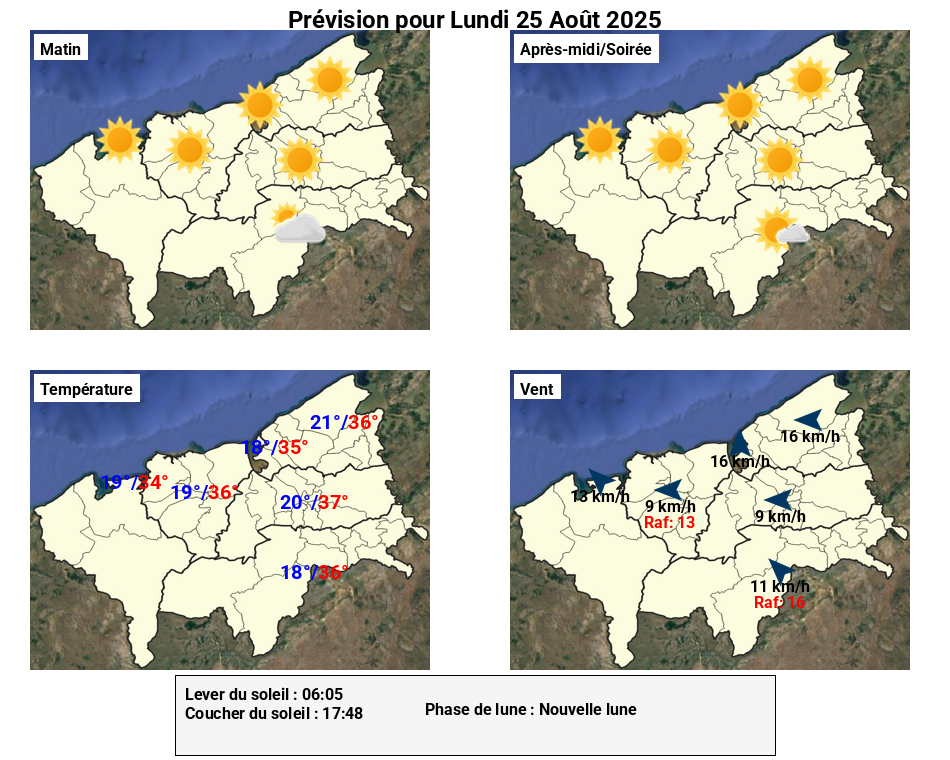
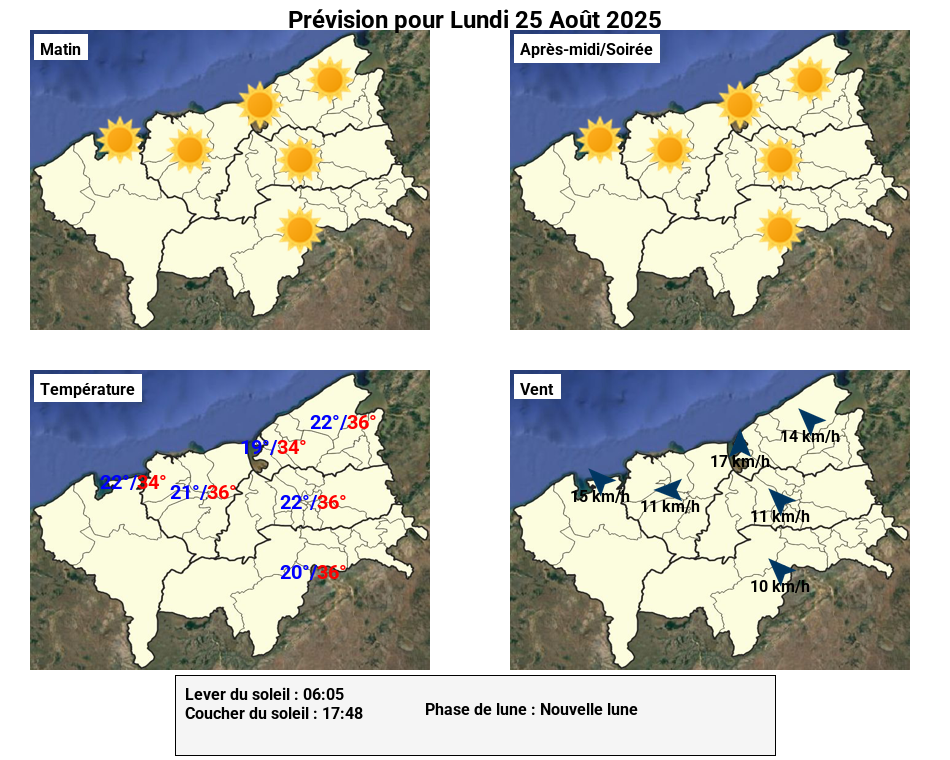
frcst update on 25/08/2025

diff --git a/assets/js/script.js b/assets/js/script.js
@@ -147,17 +147,17 @@ NEANT.
 
     const templates = [
     `Temps ensoleillé sur l'ensemble de la région Boeny.
-**Vents** : Vents faibles à modérés de secteur Sud à Est (11 à 17 km/h), avec des rafales atteignant 21 km/h sur Mahajanga I.
-**Températures minimales** : entre 18 et 22 °C.
-**Températures maximales** : entre 34 et 37 °C.`,
-    `Temps ensoleillé sur l'ensemble de la région, excepté quelques passages nuageux à AmbatoBoeny.
-**Vents** : Vents faibles à modérés de secteur Sud-Est.
-**Températures minimales** : entre 18 et 21 °C.
-**Températures maximales** : entre 34 et 37 °C.`,
+**Vents** : Vents faibles à modérés de secteur Sud à Est (10 à 17 km/h).
+**Températures minimales** : entre 19 et 22 °C.
+**Températures maximales** : entre 34 et 36 °C.`,
+    `Temps ensoleillé sur l'ensemble de la région.
+**Vents** : Vents faibles à modérés de secteur Sud-Est, avec des rafales jusqu'à 25 km/h à Mahajanga I.
+**Températures minimales** : entre 17 et 21 °C.
+**Températures maximales** : entre 35 et 37 °C.`,
     `Le temps sera ensoleillé sur l'ensemble de la région tout au long de la journée.
-**Vents** : Vents faibles à modérés de secteur Sud à Sud-Est, avec des rafales jusqu'à 24 km/h à Mahajanga I.
-**Températures minimales** : entre 17 et 21 °C
-**Températures maximales** : entre 34 et 37 °C`
+**Vents** : Vents faibles à modérés de secteur Sud à Sud-Est, avec des rafales jusqu'à 26 km/h à Mahajanga I.
+**Températures minimales** : entre 17 et 20 °C
+**Températures maximales** : entre 34 et 36 °C`
 ];
 
 
